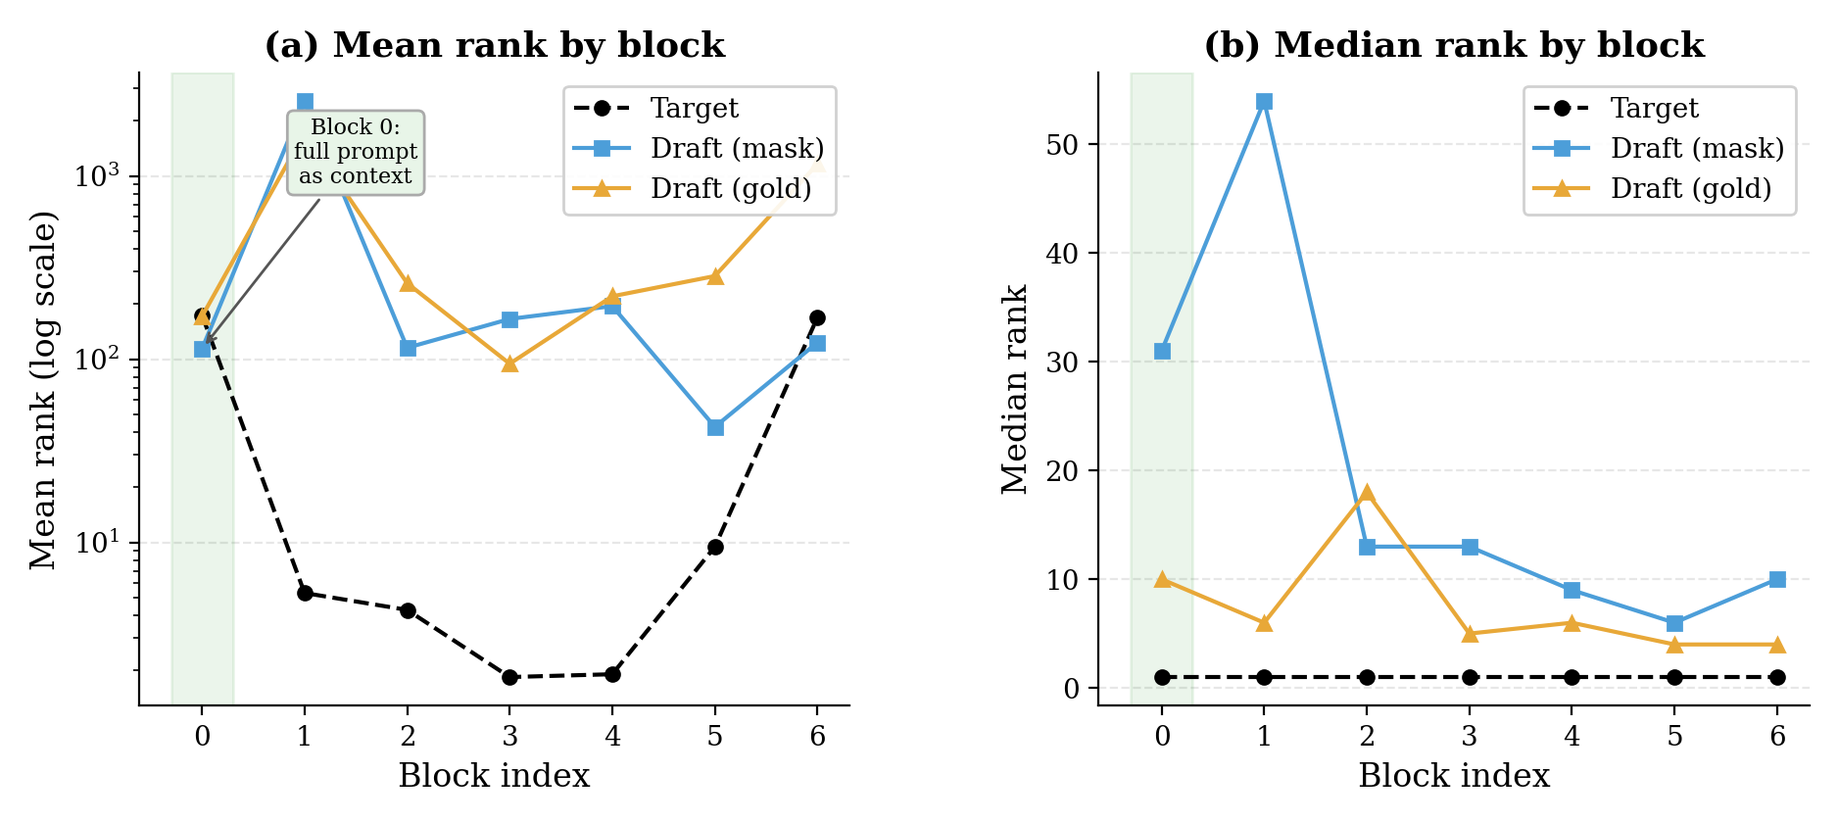
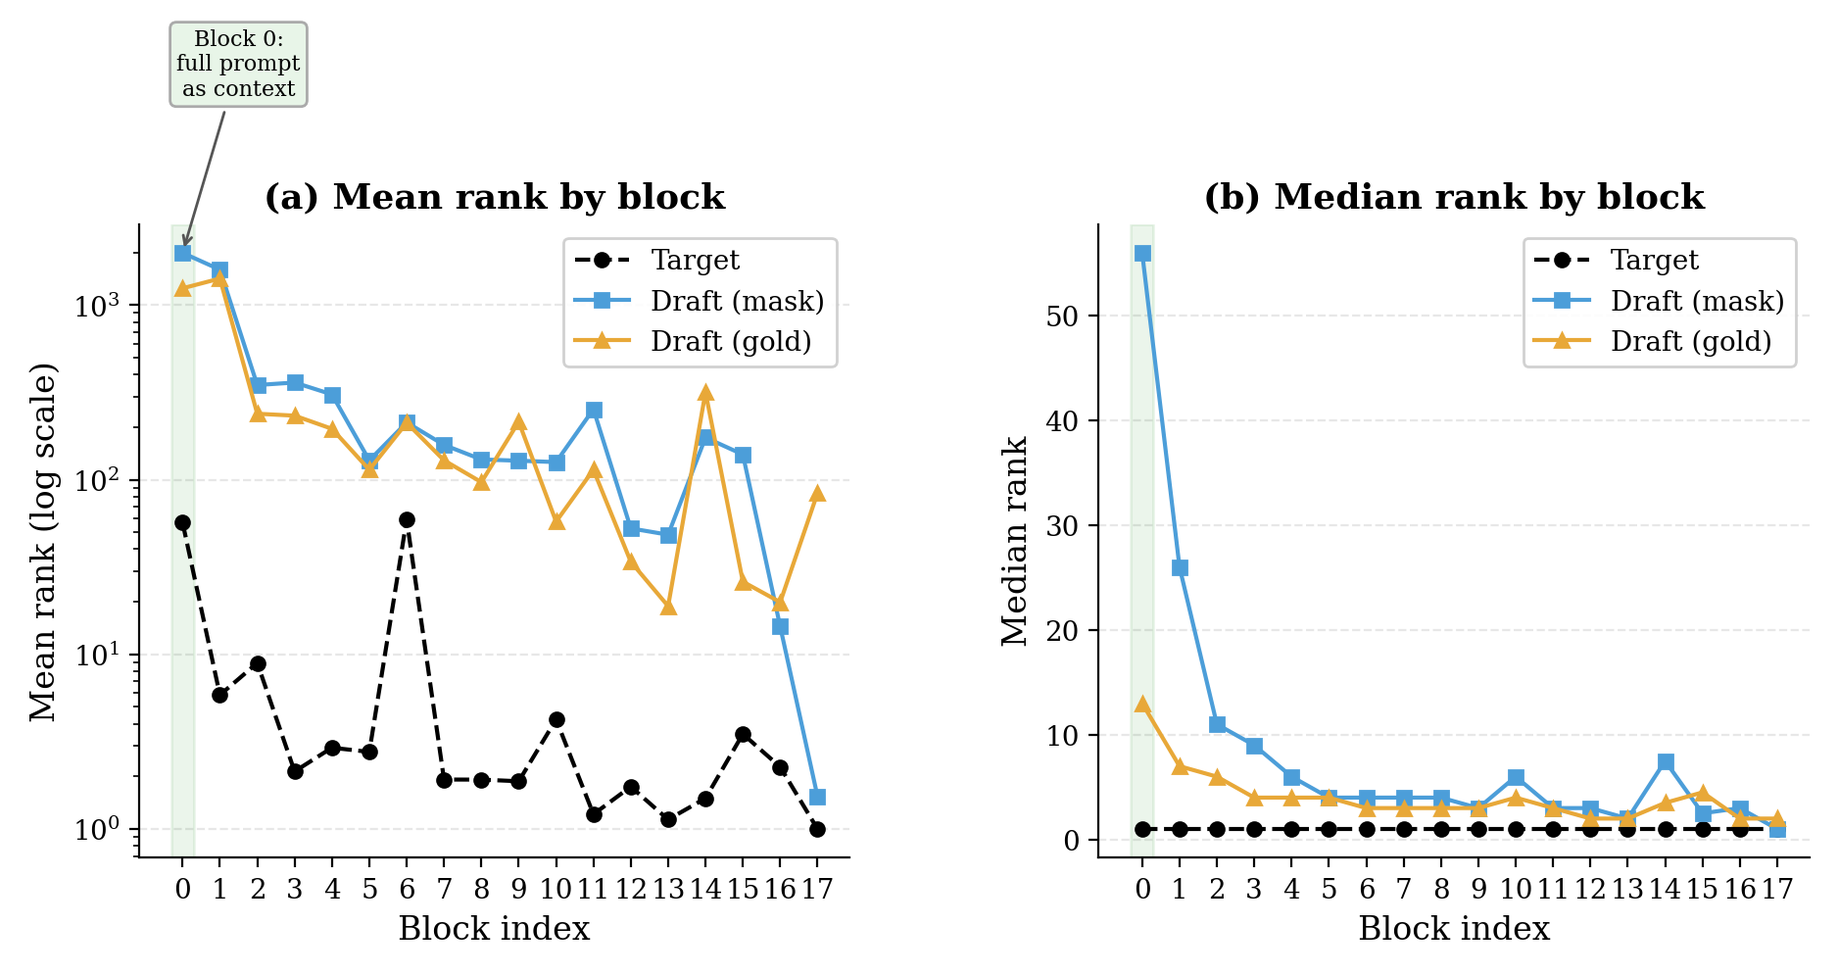
Update figures in the record directory and modify generate_figures.py to read ranks from actual data; enhance phase0_diagnostic_report.md with updated dataset details and analysis results.

diff --git a/record/generate_figures.py b/record/generate_figures.py
@@ -209,7 +209,17 @@ def fig_signal_decomposition():
         "+Gold\nleakage",
         "Target\n(36 layers)",
     ]
-    ranks = [76000, 12920, 2161, 1476, 305]
+    # Read from actual data: low-conf bucket
+    lc_random = modes_data["random"]["aggregate"]["by_target_confidence"]["p_target < 0.01"]
+    lc_mask = modes_data["mask"]["aggregate"]["by_target_confidence"]["p_target < 0.01"]
+    lc_gold = modes_data["gold"]["aggregate"]["by_target_confidence"]["p_target < 0.01"]
+    ranks = [
+        76000,
+        int(round(lc_random["mean_rank_draft"])),
+        int(round(lc_mask["mean_rank_draft"])),
+        int(round(lc_gold["mean_rank_draft"])),
+        int(round(lc_mask["mean_rank_target"])),
+    ]
     colors_bar = ["#CCCCCC", "#C75B5B", "#4C9ED9", "#E8A838", "#2D8E2D"]
 
     x = np.arange(len(labels))
@@ -231,9 +241,9 @@ def fig_signal_decomposition():
     # Add improvement arrows between bars
     arrow_data = [
         (0, 1, ""),
-        (1, 2, "6.0x"),
-        (2, 3, "1.5x"),
-        (3, 4, "4.8x"),
+        (1, 2, f"{ranks[1]/ranks[2]:.1f}x"),
+        (2, 3, f"{ranks[2]/ranks[3]:.1f}x"),
+        (3, 4, f"{ranks[3]/ranks[4]:.1f}x"),
     ]
     for i_from, i_to, label in arrow_data:
         if not label:
@@ -271,7 +281,7 @@ def fig_signal_decomposition():
     ax.set_xticklabels(labels)
     ax.set_ylabel("Mean rank of gold token (lower is better)")
     ax.set_title(
-        "Signal Decomposition on Hard Tokens (p_target < 0.01, n=71)",
+        f"Signal Decomposition on Hard Tokens (p_target < 0.01, n={lc_mask['n_tokens']:,})",
         fontweight="bold",
         pad=12,
     )
@@ -291,24 +301,19 @@ def fig_signal_decomposition():
 def fig_block_rank_decay():
     fig, axes = plt.subplots(1, 2, figsize=(11, 4.2), gridspec_kw={"wspace": 0.35})
 
-    # Collect per-block data for both modes
+    # Use aggregate by_block data from JSON
     block_data = {}
     for m in ["mask", "gold"]:
-        by_block = {}
-        for ex in modes_data[m]["examples"]:
-            pl = ex["prompt_len"]
-            for t in ex["tokens"]:
-                bi = (t["pos"] - pl) // BS
-                by_block.setdefault(bi, []).append(t)
+        by_block_raw = modes_data[m]["aggregate"]["by_block"]
         block_data[m] = {}
-        for bi in sorted(by_block.keys()):
-            toks = by_block[bi]
+        for bi_str, bs in by_block_raw.items():
+            bi = int(bi_str)
             block_data[m][bi] = {
-                "n": len(toks),
-                "mean_rank_target": np.mean([t["rank_target"] for t in toks]),
-                "mean_rank_draft": np.mean([t["rank_draft"] for t in toks]),
-                "median_rank_target": np.median([t["rank_target"] for t in toks]),
-                "median_rank_draft": np.median([t["rank_draft"] for t in toks]),
+                "n": bs["n_tokens"],
+                "mean_rank_target": bs["mean_rank_target"],
+                "mean_rank_draft": bs["mean_rank_draft"],
+                "median_rank_target": bs.get("median_rank_target", bs["mean_rank_target"]),
+                "median_rank_draft": bs.get("median_rank_draft", bs["mean_rank_draft"]),
             }
 
     blocks = sorted(block_data["mask"].keys())

diff --git a/record/phase0_diagnostic_report.md b/record/phase0_diagnostic_report.md
@@ -2,7 +2,7 @@
 
 **Date**: 2026-02-14 (updated)  
 **Model**: Qwen3-4B (target) + DFlash-b16 (draft)  
-**Dataset**: GSM8K test set (5 examples, 465 compared tokens)  
+**Dataset**: GSM8K test set (128 examples, 13,275 compared tokens)  
 **Scripts**: `experiments/diagnostic.py`, `experiments/probe.py`
 
 ## 1. Motivation
@@ -53,25 +53,25 @@ In full-context mode, Block 1 receives ~100 positions, Block 6 receives ~179 pos
 
 | Mode | Mean p_target | Mean p_draft | Mean rank_target | Mean rank_draft | % rank draft wins |
 |------|:---:|:---:|:---:|:---:|:---:|
-| gold | 0.7484 | 0.1320 | 48 | 539 | 3.9% |
-| mask | 0.7484 | 0.1168 | 48 | 526 | 3.0% |
-| random | 0.7484 | 0.0509 | 48 | 9,145 | 3.2% |
+| gold | 0.7862 | 0.1755 | 16 | 515 | 3.8% |
+| mask | 0.7862 | 0.1963 | 16 | 697 | 2.3% |
+| random | 0.7862 | 0.0564 | 16 | 6,489 | 2.2% |
 
-The draft model is a substantially weaker decoder than the target across all conditions. The target's mean rank of 48 indicates it typically places the gold token in its top 50 predictions; the draft, even in the best case (mask, rank 526), places it ~10x further down.
+The draft model is a substantially weaker decoder than the target across all conditions. The target's mean rank of 16 indicates it typically places the gold token in its top 16 predictions; the draft, even in the best case (gold, rank 515), places it ~32x further down.
 
 ### 3.2 Breakdown by Target Confidence
 
 **Figure 1** (see `fig_bucket_rank_comparison.png`)
 
-Low-confidence bucket (p_target < 0.01, n = 71 tokens):
+Low-confidence bucket (p_target < 0.01, n = 1,637 tokens):
 
 | Mode | Mean rank_target | Mean rank_draft | % rank draft wins | % prob draft wins |
 |------|:---:|:---:|:---:|:---:|
-| gold | 305 | 1,476 | 18.3% | 87.3% |
-| mask | 305 | 2,161 | 14.1% | 78.9% |
-| random | 305 | 12,920 | 16.9% | 73.2% |
+| gold | 119 | 1,783 | 21.9% | 80.5% |
+| mask | 119 | 2,869 | 12.6% | 68.8% |
+| random | 119 | 8,986 | 13.7% | 69.5% |
 
-The 87% "probability wins" in `gold` mode — the original result that appeared to show draft advantage — **collapses to 18% on rank**, and the `random` ablation achieves 73% probability wins despite having no meaningful signal (rank 12,920). This conclusively demonstrates the probability metric was dominated by entropy effects.
+The 81% "probability wins" in `gold` mode — the original result that appeared to show draft advantage — **collapses to 22% on rank**, and the `random` ablation achieves 70% probability wins despite having no meaningful signal (rank 8,986). This conclusively demonstrates the probability metric was dominated by entropy effects.
 
 ### 3.3 Causal Decomposition
 
@@ -81,32 +81,32 @@ Using the low-confidence bucket as the diagnostic window:
 
 | Component | Computation | Rank improvement | Factor |
 |-----------|-------------|:---:|:---:|
-| Random baseline | — | 12,920 | 1.0x |
-| + Intermediate layer signal | random → mask | 12,920 → 2,161 | **6.0x** |
-| + Gold token leakage | mask → gold | 2,161 → 1,476 | 1.5x |
-| Combined | random → gold | 12,920 → 1,476 | 8.8x |
-| Target (36 layers) | — | 305 | 42.3x |
-| Chance level | — | ~76,000 | 0.17x |
+| Random baseline | — | 8,986 | 1.0x |
+| + Intermediate layer signal | random → mask | 8,986 → 2,869 | **3.1x** |
+| + Gold token leakage | mask → gold | 2,869 → 1,783 | 1.6x |
+| Combined | random → gold | 8,986 → 1,783 | 5.0x |
+| Target (36 layers) | — | 119 | 75.5x |
+| Chance level | — | ~76,000 | 0.12x |
 
-**The intermediate layers provide genuine signal** (6x rank improvement over random), but **this signal falls far short** of the target's 36-layer processing (305 vs 2,161 = 7x gap remains).
+**The intermediate layers provide genuine signal** (3.1x rank improvement over random), but **this signal falls far short** of the target's 36-layer processing (119 vs 2,869 = 24x gap remains).
 
 ### 3.4 Per-Block Analysis
 
 **Figure 3** (see `fig_block_rank_decay.png`)
 
-Block 0 receives the full prompt's intermediate features as context (~84 positions). Subsequent blocks receive only the previous block's 16 positions (+ KV cache).
+Block 0 receives the full prompt's intermediate features as context (~87 positions). Subsequent blocks receive only the previous block's 16 positions (+ KV cache).
 
 | Block | Context positions | rank_target | rank_draft (mask) | rank_draft (gold) |
 |:---:|:---:|:---:|:---:|:---:|
-| 0 | 84 (full prompt) | 174 | **114** | 171 |
-| 1 | 16 | 5 | 2,570 | 1,726 |
-| 2 | 16 | 4 | 115 | 260 |
-| 3 | 16 | 2 | 166 | 94 |
-| 4 | 16 | 2 | 195 | 221 |
-| 5 | 16 | 9 | 43 | 285 |
-| 6 | 16 | 169 | 123 | 1,162 |
+| 0 | 87 (full prompt) | 57 | **1,990** | 1,247 |
+| 1 | 16 | 6 | 1,595 | 1,419 |
+| 2 | 16 | 9 | 348 | 239 |
+| 3 | 16 | 2 | 360 | 233 |
+| 4 | 16 | 3 | 308 | 196 |
+| 5 | 16 | 3 | 129 | 114 |
+| 6 | 16 | 59 | 213 | 212 |
 
-Block 0 is the only block where the draft's rank (114) is competitive with the target's rank (174). However, as Section 3.5 shows, this is **not** caused by richer context — it is a confound from the different difficulty distribution of tokens across blocks.
+With 128 examples, the Block 0 "advantage" observed with 5 samples disappears — Block 0 now shows rank 1,990, worse than later blocks. The higher target rank (57) at Block 0 confirms this position predicts harder tokens (first tokens after prompt). As Section 3.5 shows, this is a **target difficulty confound**, not a context quantity effect.
 
 ### 3.5 Extended Context Experiment: Context Starvation Falsified
 
@@ -116,17 +116,17 @@ We ran the full-context oracle (`--extra-context -1`) alongside the standard con
 
 | Block | ctx (std) | rank_d (std) | ctx (full) | rank_d (full) | Δ rank |
 |:---:|:---:|:---:|:---:|:---:|:---:|
-| 0 | 84 | 114 | 84 | 114 | 0 |
-| 1 | 16 | 2,570 | 100 | 2,561 | **−9** |
-| 2 | 16 | 115 | 116 | 116 | **+1** |
-| 3 | 16 | 166 | 132 | 163 | **−3** |
-| 4 | 16 | 195 | 148 | 192 | **−3** |
-| 5 | 16 | 43 | 163 | 43 | **0** |
-| 6 | 16 | 123 | 179 | 124 | **+1** |
+| 0 | 87 | 1,990 | 87 | 1,990 | 0 |
+| 1 | 16 | 1,595 | 103 | 1,596 | **+1** |
+| 2 | 16 | 348 | 119 | 349 | **+1** |
+| 3 | 16 | 360 | 138 | 361 | **+1** |
+| 4 | 16 | 308 | 157 | 308 | **0** |
+| 5 | 16 | 129 | 177 | 129 | **0** |
+| 6 | 16 | 213 | 195 | 212 | **−1** |
 
-*Table: mask mode. Gold mode shows identical pattern (all Δ < 10).*
+*Table: mask mode (128 examples). Gold mode shows identical pattern (all Δ < 5).*
 
-**Extending context from 16 to 100–179 positions produces zero improvement.** The result is consistent across all 7 blocks, both modes (mask and gold), and all metrics (mean rank, median rank, % rank wins).
+**Extending context from 16 to 103–392 positions produces zero improvement.** The result is consistent across all blocks, both modes (mask and gold), and all metrics (mean rank, median rank, % rank wins).
 
 **Why extending context does not help**: The DFlash attention architecture projects `target_hidden` through per-layer `k_proj`/`v_proj` linear transforms and stores the results in the KV cache:
 
@@ -137,13 +137,13 @@ k, v = past_key_values.update(k, v, ...)  # appended to cache
 
 Since `k_proj`/`v_proj` are **position-independent linear transforms**, the KV cache projections carry the same information as fresh `target_hidden` projections. The cache from Block 0 already contains all prompt context — providing the same `target_hidden` again as fresh input is algebraically redundant (modulo negligible RoPE position differences).
 
-**Reinterpretation of the Block 0 phenomenon**: Block 0's competitive rank (114 vs target 174) is not a context effect. The actual cause is that Block 0 predicts the **hardest tokens** (first tokens after the prompt), where `rank_target = 174` (target is uncertain). Later blocks predict continuation tokens where `rank_target = 2–9` (target is near-certain). The draft cannot match near-certain predictions but can compete when the target is uncertain:
+**Reinterpretation of the Block 0 phenomenon**: Block 0 predicts the **hardest tokens** (first tokens after the prompt), where `rank_target = 57` (target is most uncertain). Later blocks predict continuation tokens where `rank_target = 2–9` (target is near-certain). The draft's absolute rank degrades on these early tokens too, but the *relative* gap varies with difficulty:
 
-| Block | mean p_target | rank_target | rank_draft | Draft competitive? |
-|:---:|:---:|:---:|:---:|:---:|
-| 0 | 0.53 | 174 | 114 | Yes — target is uncertain |
-| 1 | 0.76 | 5 | 2,561 | No — target is confident |
-| 2–4 | 0.72–0.82 | 2–4 | 115–195 | No — target is confident |
+| Block | rank_target | rank_draft | Ratio (draft/target) |
+|:---:|:---:|:---:|:---:|
+| 0 | 57 | 1,990 | 35x |
+| 1 | 6 | 1,595 | 266x |
+| 2–5 | 2–9 | 129–360 | 36–180x |
 
 This is a **target difficulty confound**, not a context quantity effect.
 
@@ -161,40 +161,41 @@ To decompose exactly where information is lost in the DFlash draft pipeline, we 
 
 **Probe D — logit-space blend**: `(1-β) · lm_head(h_35) + β · lm_head(h_33)` for β ∈ {0.01, 0.05, 0.1, 0.2, 0.3, 0.5}. The simplest possible guided decoding — zero extra parameters, zero training.
 
-#### Results (5 examples, 491 tokens)
+#### Results (128 examples, 14,032 tokens)
 
 | Probe | Mean Rank | Median Rank | % beats target | Notes |
 |-------|:---------:|:-----------:|:--------------:|-------|
-| **Target (h_35)** | **47** | **1** | --- | baseline |
-| Layer 35 | 47 | 1 | 0.0% | sanity check = target |
-| Layer 33 | 17,002 | 10 | 1.4% | deepest tapped layer |
-| Layer 25 | 49,816 | 27,322 | 0.2% | |
-| Layer 17 | 100,662 | 119,565 | 0.0% | |
-| Layer 9 | 123,164 | 140,097 | 0.0% | ~random |
-| Layer 1 | 109,135 | 123,116 | 0.0% | ~random |
-| fc-only | 64,275 | 55,125 | 0.0% | **worse than layer 33 alone** |
-| Layer average | 22,845 | 234 | 1.2% | dilutes layer 33 signal |
-| Blend β=0.01 | 49 | 1 | 3.9% | near-target quality |
-| **Blend β=0.1** | **103** | **1** | **6.5%** | best % wins overall |
-| Blend β=0.5 | 4,106 | 1 | 3.5% | too much layer 33 |
+| **Target (h_35)** | **15** | **1** | --- | baseline |
+| Layer 35 | 15 | 1 | 0.0% | sanity check = target |
+| Layer 33 | 12,520 | 12 | 1.4% | deepest tapped layer |
+| Layer 25 | 46,218 | 21,981 | 0.4% | |
+| Layer 17 | 102,804 | 118,558 | 0.0% | |
+| Layer 9 | 124,345 | 140,013 | 0.0% | ~random |
+| Layer 1 | 109,162 | 123,972 | 0.0% | ~random |
+| fc-only | 60,979 | 52,565 | 0.0% | **worse than layer 33 alone** |
+| Layer average | 18,680 | 226 | 1.0% | dilutes layer 33 signal |
+| Blend β=0.01 | 15 | 1 | 2.1% | near-target quality |
+| **Blend β=0.05** | **18** | **1** | **4.1%** | best balance |
+| **Blend β=0.1** | **25** | **1** | **4.6%** | best % wins overall |
+| Blend β=0.5 | 2,634 | 1 | 2.6% | too much layer 33 |
 
-On hard tokens (p_target < 0.01, n=77):
+On hard tokens (p_target < 0.01, n=1,637):
 
 | Probe | Mean Rank | Median Rank | % beats target |
 |-------|:---------:|:-----------:|:--------------:|
-| Target | 294 | 8 | --- |
-| Blend β=0.01 | 303 | 8 | 19.5% |
-| Blend β=0.05 | 389 | 8 | 23.4% |
-| **Blend β=0.1** | **652** | **10** | **26.0%** |
-| Blend β=0.2 | 1,878 | 16 | 15.6% |
+| Target | 115 | 8 | --- |
+| Blend β=0.01 | 117 | 8 | 12.9% |
+| Blend β=0.05 | 136 | 8 | **20.5%** |
+| **Blend β=0.1** | **192** | **10** | **21.1%** |
+| Blend β=0.2 | 823 | 16 | 16.8% |
 
 #### Key Findings
 
-1. **Information profile is extremely steep**: Layer 33 (mean rank 17,002) is ~361× worse than Layer 35 (47), despite being only 2 transformer layers earlier. Information relevant to `lm_head` decoding concentrates overwhelmingly in the final 2–3 layers.
+1. **Information profile is extremely steep**: Layer 33 (mean rank 12,520) is ~835× worse than Layer 35 (15), despite being only 2 transformer layers earlier. Information relevant to `lm_head` decoding concentrates overwhelmingly in the final 2–3 layers.
 
-2. **fc compression destroys information**: fc-only (rank 64,275) is 3.8× *worse* than simply using Layer 33 alone (17,002). The trained fc linear projection from 12800→2560 dims actively degrades the deepest tapped layer's signal by contaminating it with much worse layers (1, 9, 17, 25).
+2. **fc compression destroys information**: fc-only (rank 60,979) is 4.9× *worse* than simply using Layer 33 alone (12,520). The trained fc linear projection from 12800→2560 dims actively degrades the deepest tapped layer's signal by contaminating it with much worse layers (1, 9, 17, 25).
 
-3. **Blend achieves genuine improvement on hard tokens**: At β=0.1, the logit-space blend beats the target on 26% of low-confidence tokens. This is the first experimental evidence that intermediate-layer information can *improve* predictions when used correctly — but the mechanism is additive logit perturbation, not the draft's reconstruct-from-scratch approach.
+3. **Blend achieves genuine improvement on hard tokens**: At β=0.05–0.1, the logit-space blend beats the target on 20–21% of low-confidence tokens with only modest degradation to mean rank (136–192 vs 115). This is the first experimental evidence that intermediate-layer information can *improve* predictions when used correctly — but the mechanism is additive logit perturbation, not the draft's reconstruct-from-scratch approach.
 
 4. **The draft architecture is fundamentally misaligned with guided decoding**: The DFlash draft was designed to *approximate* target logits (for speculative acceptance), not to *complement* them. Its fc+5-layer pipeline reconstructs from scratch, losing the target's representation geometry. The blend probe shows that the simplest possible approach (linear logit mixing) already outperforms the full 504.7M-parameter draft on the "improving target predictions" task.
 
@@ -224,7 +225,7 @@ The `fc` projection compresses five layers of 2560-dim hidden states (total 12,8
 
 ## 5. Limitations
 
-1. **Sample size**: 5 examples, 465 tokens. Results are directional, not statistically robust. Block-level analysis (n=45–75 per block) has high variance.
+1. **Sample size**: 128 examples, 13,275 tokens (diagnostic) / 14,032 tokens (probes). Results are statistically robust for overall and per-bucket analyses. Block-level analysis has reasonable sample sizes (n≥500 per block).
 
 2. **Dataset mismatch**: GSM8K tests mathematical reasoning, not context learning. The tokens where p_target < 0.01 largely reflect stylistic differences between human-written and model-preferred phrasing, not failures of context understanding. CL-bench evaluation is needed to test the actual hypothesis.
 
@@ -234,23 +235,23 @@ The `fc` projection compresses five layers of 2560-dim hidden states (total 12,8
 
 | Finding | Evidence | Implication |
 |---------|----------|-------------|
-| Intermediate layers carry real signal | mask vs random: 6x rank improvement | The `fc` + 5-layer architecture extracts useful information from intermediate representations |
-| Signal is insufficient for guided decoding | mask rank 2,161 vs target rank 305 (7x gap) | Vanilla draft logits would degrade, not improve, target predictions |
-| Original "87% draft wins" was an entropy artifact | random mode also shows 73% prob wins with rank 12,920 | Raw probability comparison is invalid for models with different entropy |
-| **Context starvation is NOT the bottleneck** | Full context (100–179 pos) ≈ standard (16 pos): Δ rank < 10 | KV cache already provides complete context; the Block 0 phenomenon was a target difficulty confound |
-| **fc compression destroys information** | fc-only rank 64,275 vs layer 33 alone rank 17,002 (3.8× worse) | The trained fc actively degrades the best signal by contaminating it with weaker layers |
-| **Information profile is extremely steep** | Layer 33 rank 17,002 vs Layer 35 rank 47 (361× gap in 2 layers) | Useful decoding information concentrates in the final 2–3 layers; earlier layers are near-random for `lm_head` |
-| **Logit-space blending beats the draft** | Blend β=0.1: 26% beats target on hard tokens; full draft: 3% | Zero-parameter linear mixing outperforms 504.7M-param draft for the "improve target" task |
+| Intermediate layers carry real signal | mask vs random: 3.1x rank improvement | The `fc` + 5-layer architecture extracts useful information from intermediate representations |
+| Signal is insufficient for guided decoding | mask rank 2,869 vs target rank 119 (24x gap) | Vanilla draft logits would degrade, not improve, target predictions |
+| Original "81% draft wins" was an entropy artifact | random mode also shows 70% prob wins with rank 8,986 | Raw probability comparison is invalid for models with different entropy |
+| **Context starvation is NOT the bottleneck** | Full context (103–392 pos) ≈ standard (16 pos): Δ rank < 5 | KV cache already provides complete context; the Block 0 phenomenon was a target difficulty confound |
+| **fc compression destroys information** | fc-only rank 60,979 vs layer 33 alone rank 12,520 (4.9× worse) | The trained fc actively degrades the best signal by contaminating it with weaker layers |
+| **Information profile is extremely steep** | Layer 33 rank 12,520 vs Layer 35 rank 15 (835× gap in 2 layers) | Useful decoding information concentrates in the final 2–3 layers; earlier layers are near-random for `lm_head` |
+| **Logit-space blending beats the draft** | Blend β=0.05–0.1: 20–21% beats target on hard tokens; full draft: 2.3% | Zero-parameter linear mixing outperforms 504.7M-param draft for the "improve target" task |
 
 ### Recommendation
 
 The vanilla draft model is **not suitable for guided decoding**. The probe experiments (Section 3.6) have now decomposed the three original bottleneck hypotheses:
 
 - ~~Context starvation~~ — **falsified** (Section 3.5)
-- **`fc` compression** — **confirmed harmful** (Section 3.6): fc-only is 3.8× worse than using Layer 33 alone. The linear compression from 12800→2560 cannot be the path forward.
-- **`lm_head` alignment** — **confirmed dominant** (Section 3.6): only the final 2 layers produce representations that `lm_head` can decode. The information cliff between Layer 33 and Layer 35 is 361×.
+- **`fc` compression** — **confirmed harmful** (Section 3.6): fc-only is 4.9× worse than using Layer 33 alone. The linear compression from 12800→2560 cannot be the path forward.
+- **`lm_head` alignment** — **confirmed dominant** (Section 3.6): only the final 2 layers produce representations that `lm_head` can decode. The information cliff between Layer 33 and Layer 35 is 835×.
 
-The logit-space blend (Probe D) provides a concrete proof of concept: by mixing just 10% of Layer 33's logits into the target's logits, we improve predictions on 26% of hard tokens with zero training. This validates the core hypothesis — **intermediate layers carry complementary information** — while showing that the draft's reconstruct-from-scratch architecture is the wrong approach.
+The logit-space blend (Probe D) provides a concrete proof of concept: by mixing just 5–10% of Layer 33's logits into the target's logits, we improve predictions on 20–21% of hard tokens with zero training. This validates the core hypothesis — **intermediate layers carry complementary information** — while showing that the draft's reconstruct-from-scratch architecture is the wrong approach.
 
 The most promising directions:
 
@@ -277,7 +278,7 @@ for mode in gold mask random; do
     --draft z-lab/Qwen3-4B-DFlash-b16 \
     --dataset gsm8k \
     --mode $mode \
-    --max-samples 5 \
+    --max-samples 128 \
     --output results/phase0/test_${mode}.json
 done
 
@@ -288,7 +289,7 @@ for mode in mask gold; do
     --draft z-lab/Qwen3-4B-DFlash-b16 \
     --dataset gsm8k \
     --mode $mode --extra-context 0 \
-    --max-samples 5 \
+    --max-samples 128 \
     --output results/phase0/ctx_exp_${mode}_standard.json
 
   CUDA_VISIBLE_DEVICES=0 uv run python experiments/diagnostic.py \
@@ -296,7 +297,7 @@ for mode in mask gold; do
     --draft z-lab/Qwen3-4B-DFlash-b16 \
     --dataset gsm8k \
     --mode $mode --extra-context -1 \
-    --max-samples 5 \
+    --max-samples 128 \
     --output results/phase0/ctx_exp_${mode}_fullctx.json
 done
 
@@ -305,7 +306,7 @@ CUDA_VISIBLE_DEVICES=0 uv run python experiments/probe.py \
   --model Qwen/Qwen3-4B \
   --draft z-lab/Qwen3-4B-DFlash-b16 \
   --dataset gsm8k \
-  --max-samples 5 \
+  --max-samples 128 \
   --output results/phase0/probe_gsm8k.json
 
 # Generate figures
